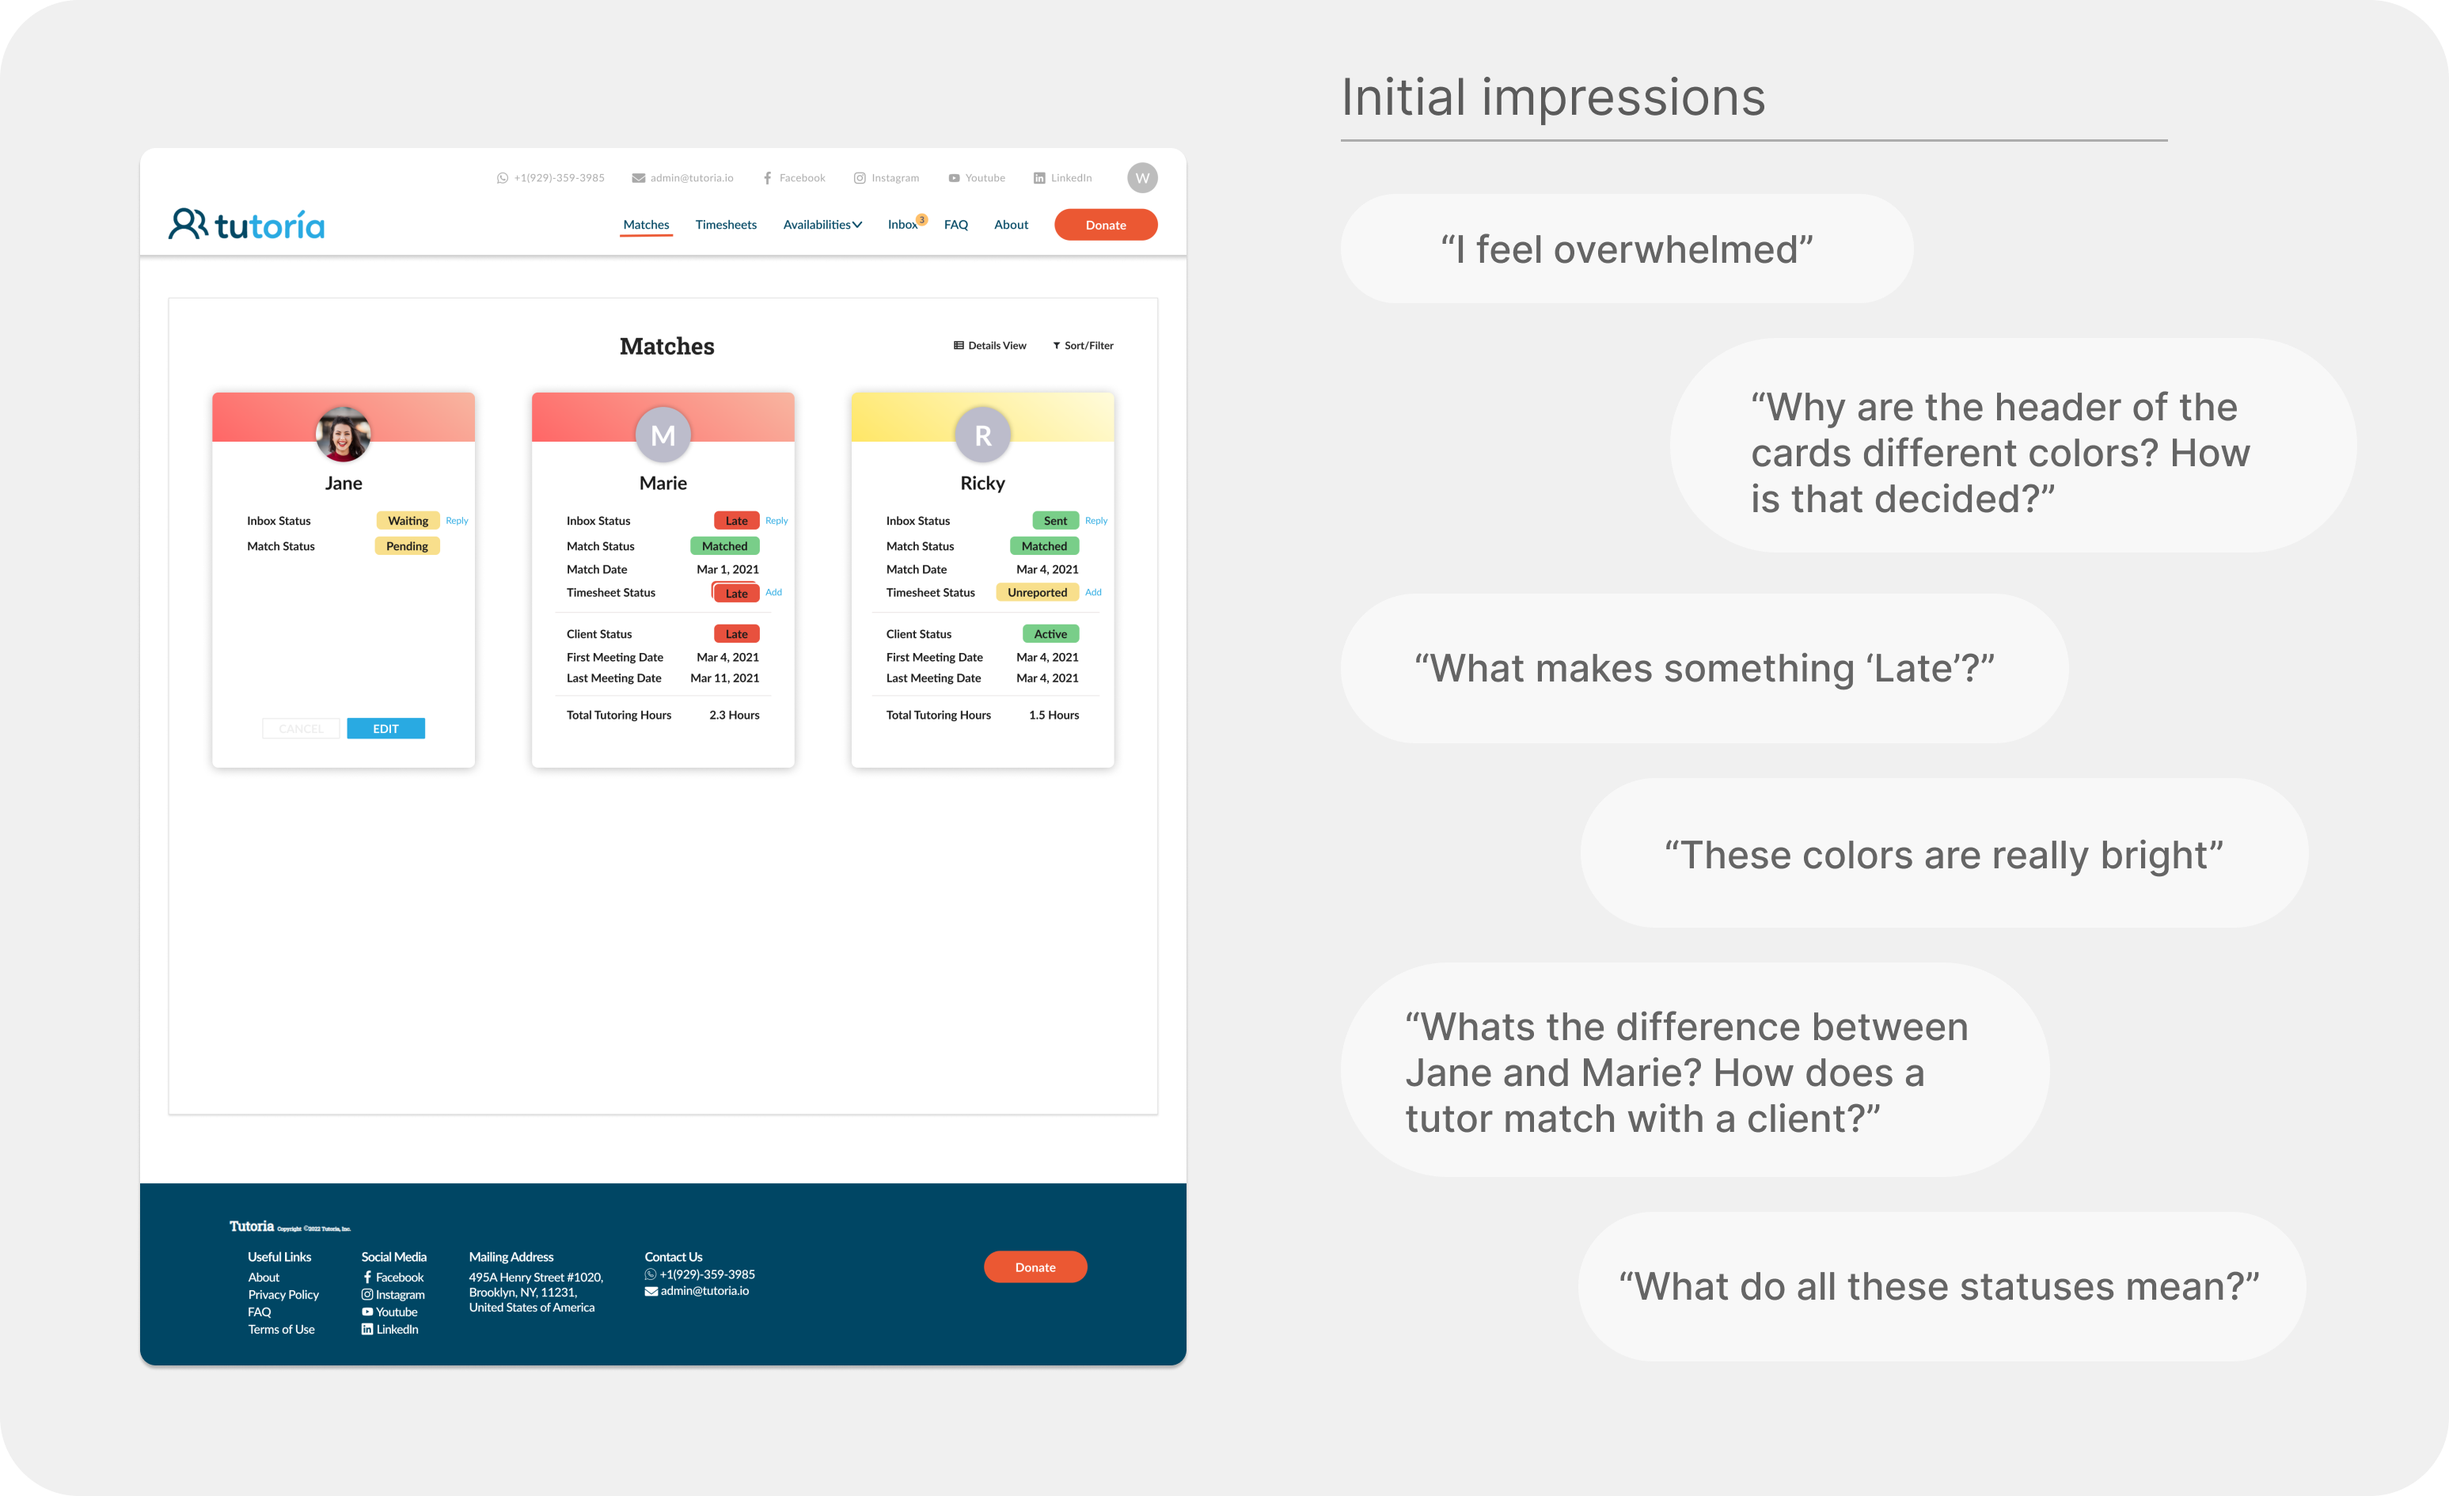
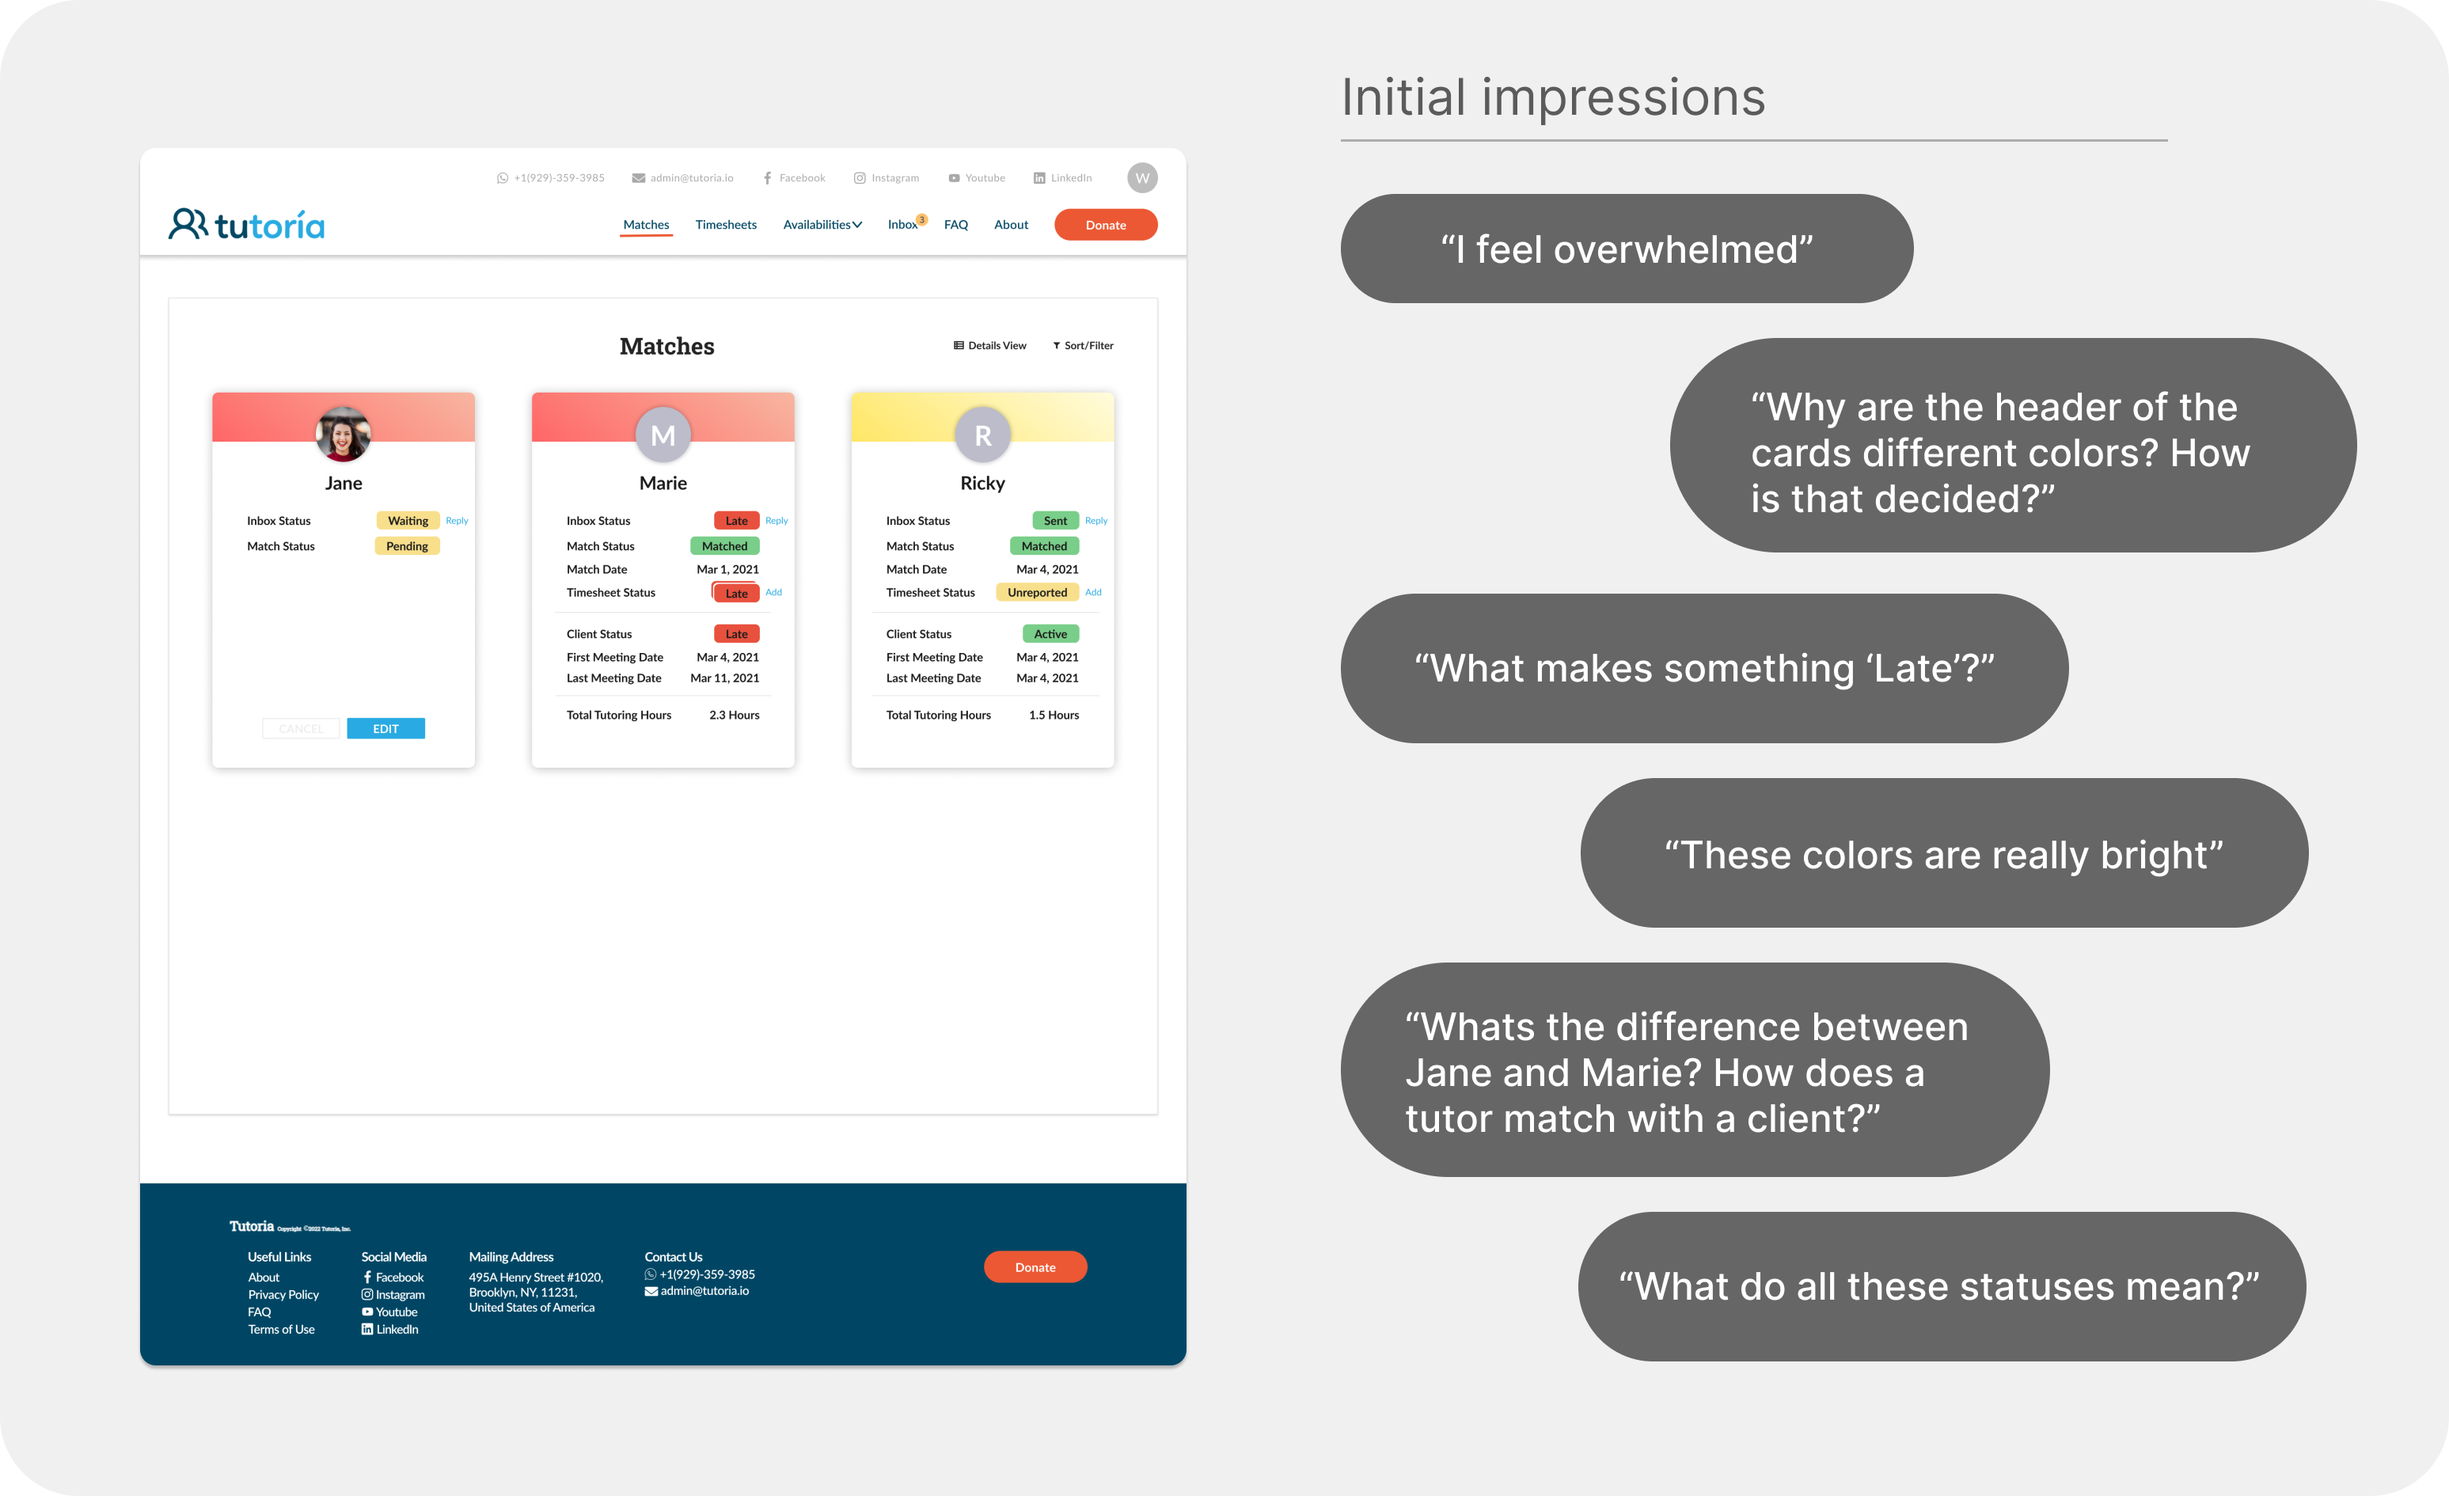
edits

Changed region(s): [[0.5275, 0.1249, 0.9619, 0.9365]]

diff --git a/tutoria.html b/tutoria.html
@@ -223,7 +223,7 @@
 		</div>
 		<h6>Upon joining the team, I met with one of the past UX designers and project manager to understand the scope of the project. I was tasked to work on the designs for the match report, a rundown for tutors to match with their clients and see client details. Looking at the match report designs, I was instantly overwhelmed and confused about what was going on. However, this was not enough to begin the designing process.</h6>
 		<div class="images">
-			<img  class="image" src ="img/firstimpression.png"  alt="logo">
+			<img  class="image" src ="img/firstimpression2.png"  alt="logo">
 		</div>
 	</div>
 
